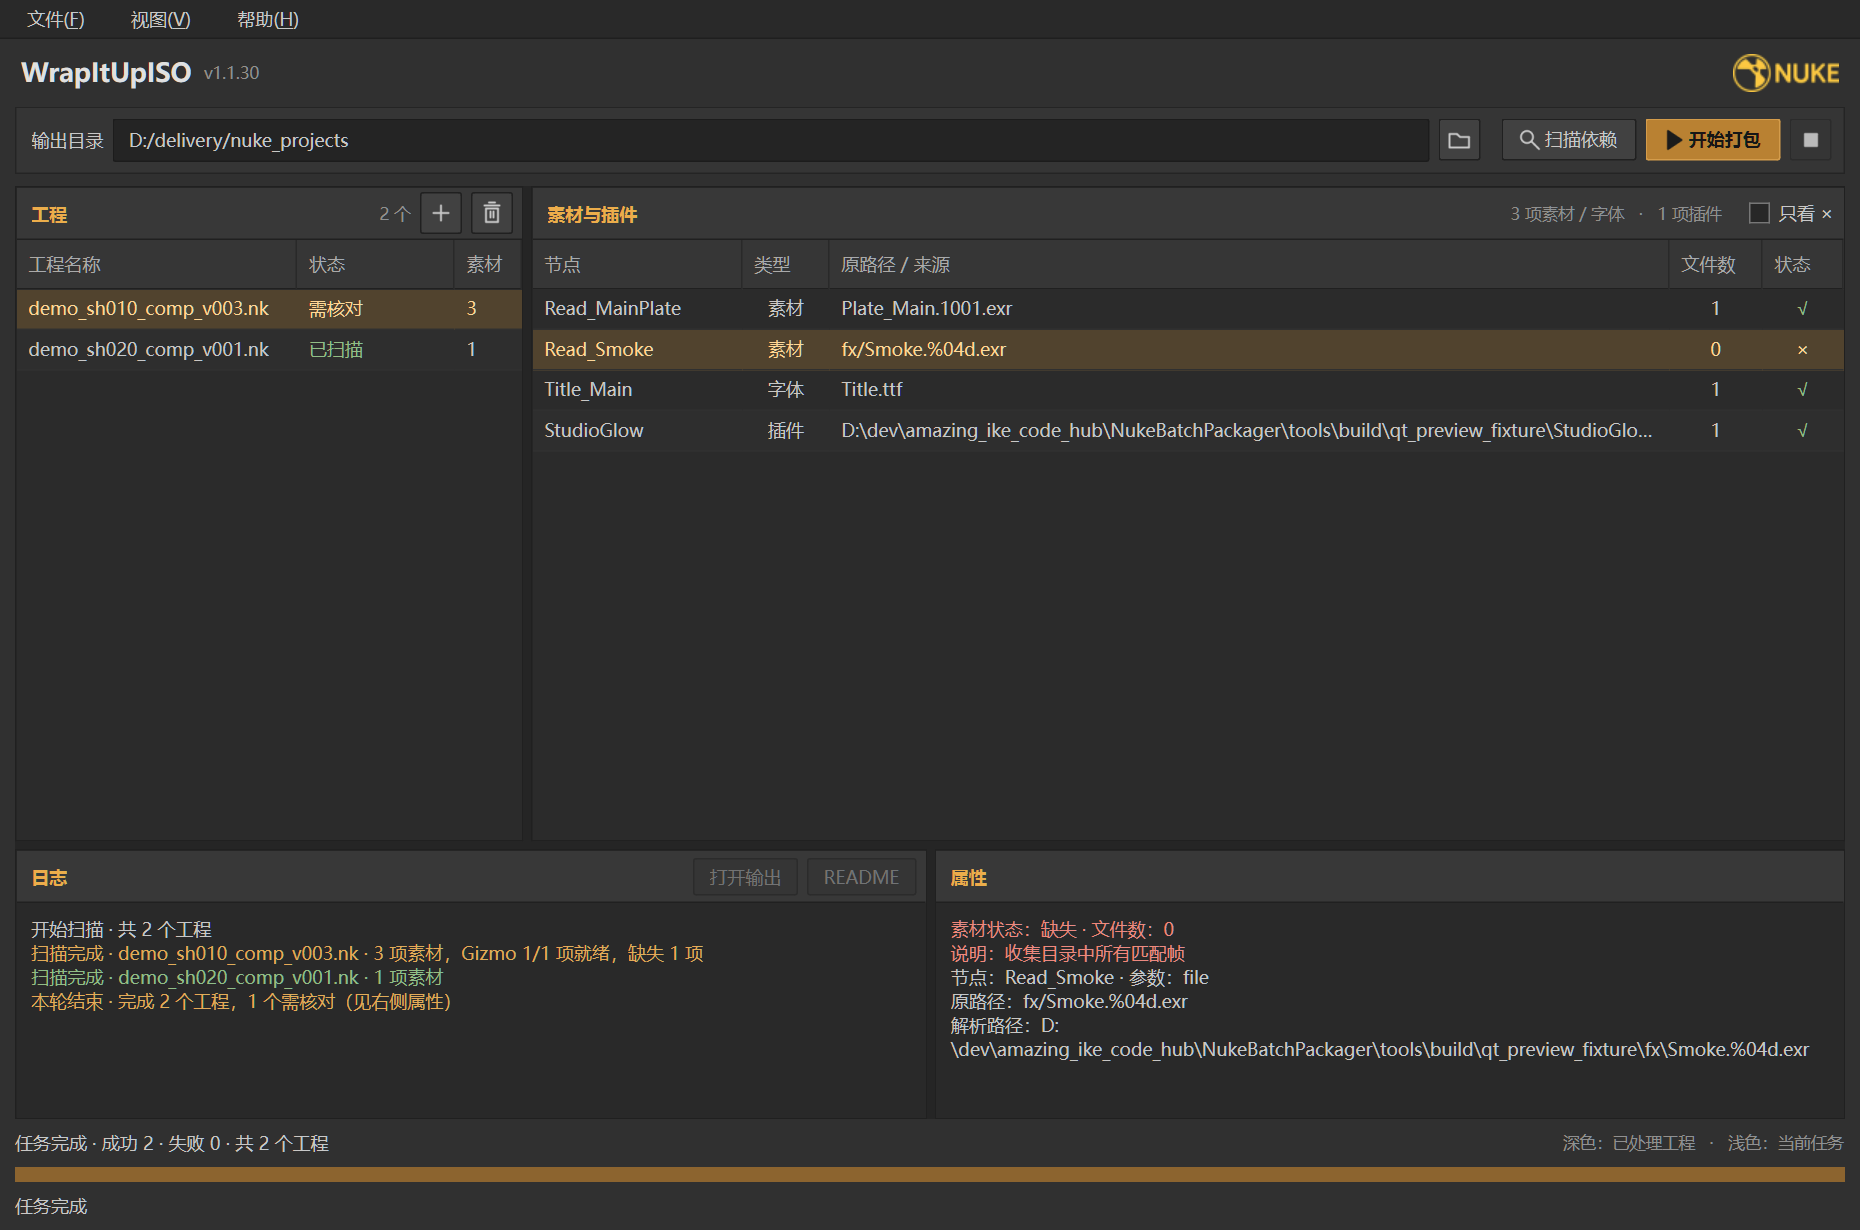
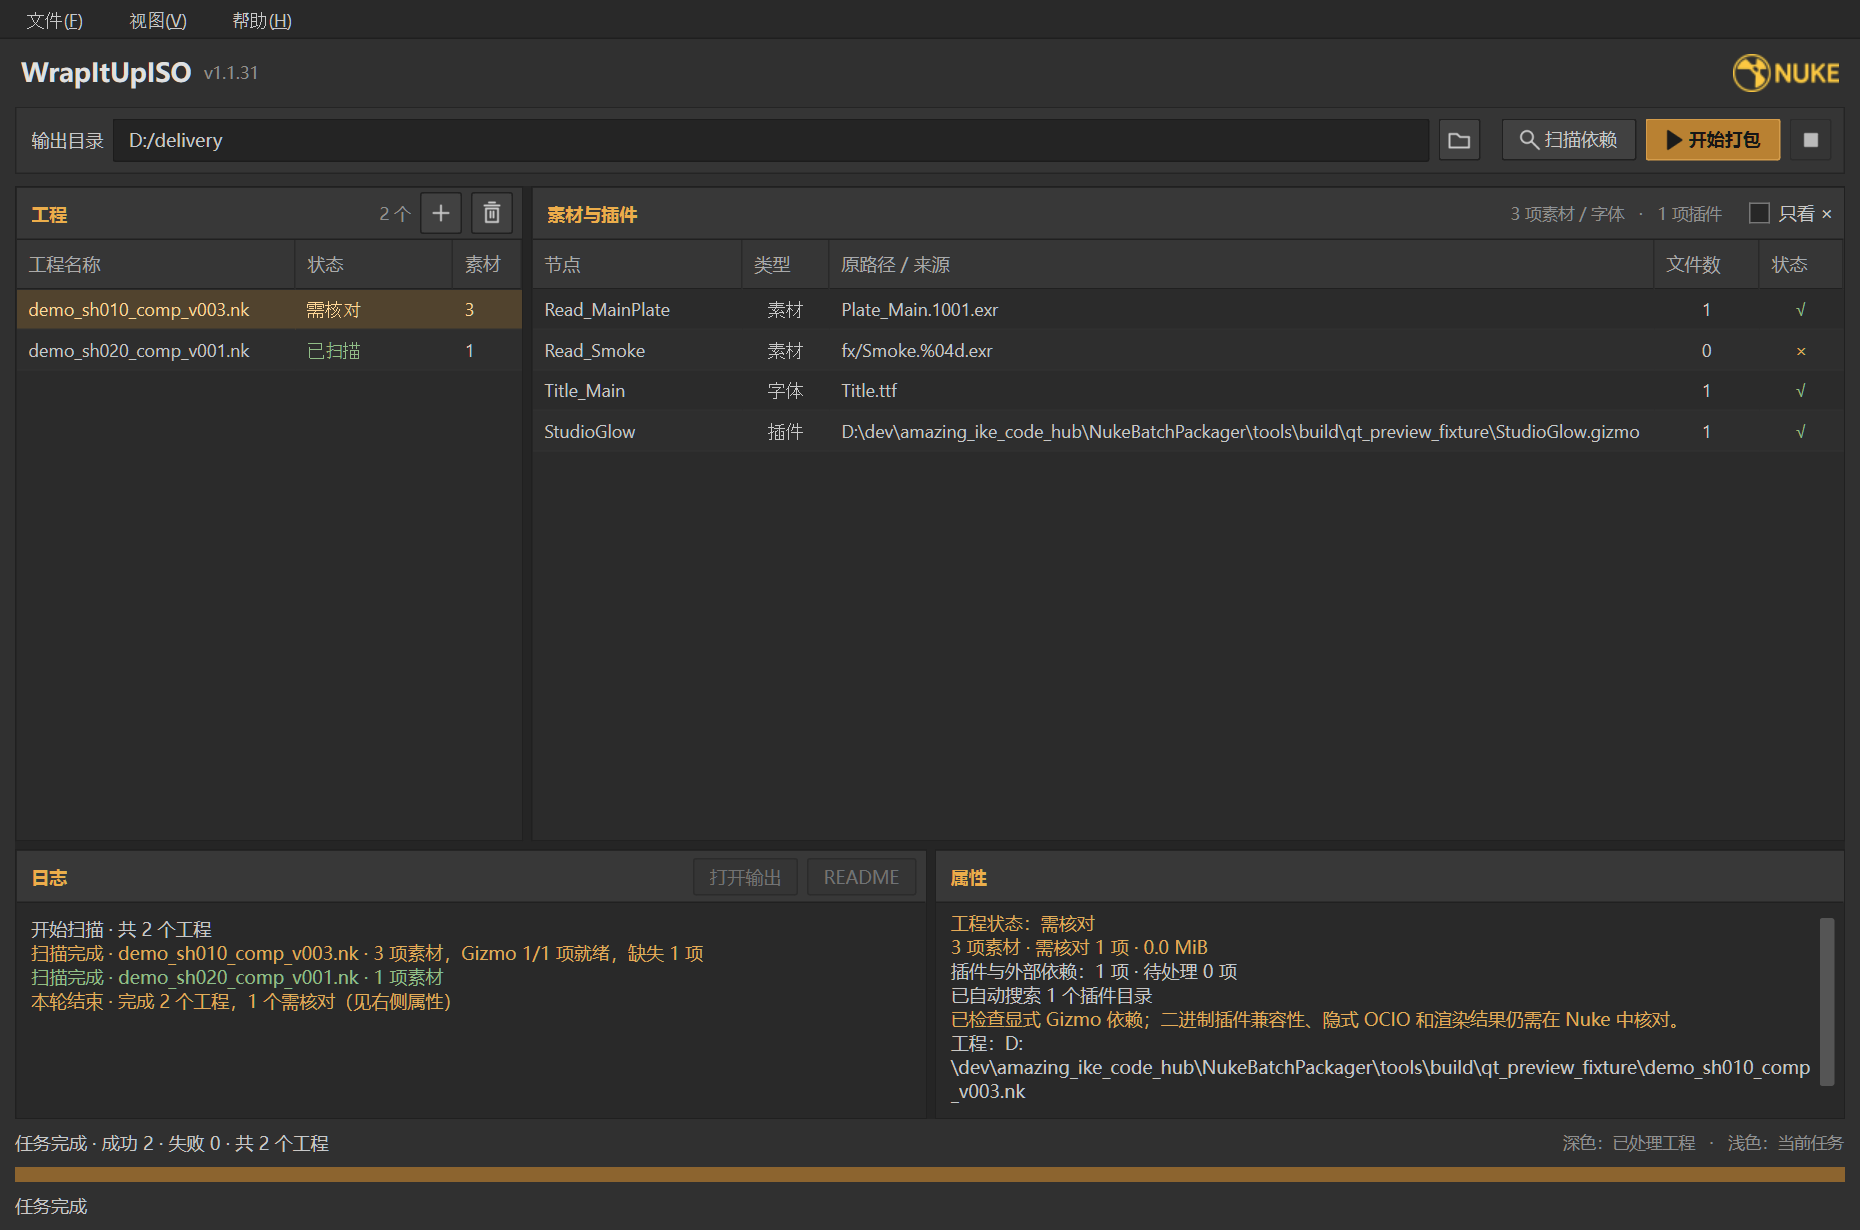
更新三语界面说明与预览并升级至 1.1.31
补充语言切换、便携设置路径、保存内容及异常恢复说明，更新中文预览并新增英文和日文预览。

单文件 EXE 已验证独立运行、日文打包，以及重启后恢复语言、输出目录和分栏布局；完整回归通过 177 项测试，覆盖率 95%。

diff --git a/docs/reference.md b/docs/reference.md
@@ -6,7 +6,7 @@
 
 ## Windows 启动
 
-1. 双击 `tools/dist/WrapItUpISO 1.1.30.exe`。这是单文件发布版，已内置 Python 运行时、Qt6 和全部界面依赖，目标电脑无需安装 Python 或 Python Launcher。
+1. 双击 `tools/dist/WrapItUpISO 1.1.31.exe`。这是单文件发布版，已内置 Python 运行时、Qt6 和全部界面依赖，目标电脑无需安装 Python 或 Python Launcher。
 2. 点击左侧工程列表上方的 `+`，打开 Windows 原生文件选择器。支持 Ctrl / Shift 多选文件夹、`.nk` 工程，也可混选，点击“添加选中项”加入列表。双击文件夹进入目录；仅选择 `.nk` 时也可点击“打开”。文件夹会递归查找 `.nk`，没有工程时在日志提示，重复工程不会重复添加。仍支持直接拖入文件或文件夹。
 3. 点击工具栏的放大镜图标“扫描素材与插件”。左侧选择工程，右侧分别列出素材和 Gizmo / 插件条目，点击条目查看来源与问题。左右分栏宽度可拖动调整。
 4. 将一个文件夹拖到“输出目录”输入框，自动使用该路径；也可点击文件夹图标选择目录。点击三角形图标“开始打包”。拖到其他区域的文件夹仍用于添加工程。
@@ -19,7 +19,7 @@
 
 重新扫描、取消或再次打包失败时，仍可打开该工程上一次成功打包的目录和 README；下一次成功打包后入口更新到新目录。移除工程或清空列表时清除对应记录。
 
-分发时只需复制 `WrapItUpISO 1.1.30.exe`。程序启动时会将内置依赖解压到系统临时目录，启动可能需要几秒钟。
+分发时只需复制 `WrapItUpISO 1.1.31.exe`。程序启动时会将内置依赖解压到系统临时目录，启动可能需要几秒钟。
 
 扫描和复制在后台线程执行，窗口保持可操作。连续双色进度条中，深色代表已处理工程，浅色紧接深色，代表当前工程在当前阶段的任务进度；不绘制工程分隔线，进度变化采用短暂平滑过渡。上方保留工程数量，下方显示任务数、百分比和正在处理的文件；复制阶段按文件数计任务，大文件内部仍按复制量平滑更新。任务数量尚未确定时，浅色部分贴着深色边缘缓慢伸缩。点击“取消”会清理当前未完成工程，保留已完成结果。
 
@@ -75,9 +75,41 @@ python tools/prepare_app_icons.py
 python -m PyInstaller --workpath tools/build --distpath tools/dist tools/WrapItUpISO.spec
 ```
 
-生成的程序为 `tools/dist/WrapItUpISO 1.1.30.exe`，文件名自动采用 `version.json` 中的名称与版本，无需附带 `_internal` 文件夹。
+生成的程序为 `tools/dist/WrapItUpISO 1.1.31.exe`，文件名自动采用 `version.json` 中的名称与版本，无需附带 `_internal` 文件夹。
 窗口、任务栏和 EXE 使用 `assets/Icon/nuke logo.png` 转换的圆形图标；工具栏使用同目录中的横版 Logo。图标资源随 EXE 内置，替换源图片后运行 `prepare_app_icons.py` 再构建即可更新。
 界面使用 Qt6 / PySide6，文件拖放由 Qt 原生处理；EXE 内置 Qt 库与 Windows 平台插件，不需要额外安装 Qt。
+
+## 语言与便携设置
+
+一个 EXE 内置简体中文、English、日本語。在“视图 → 语言 / Language”切换，立即更新菜单、按钮、表头、已扫描结果、属性和历史日志；工程、扫描缓存与选择状态保留。任务进行时暂时禁用语言切换。首次启动跟随系统语言，其他语言默认英文，之后使用保存的选择。
+
+应用自有文案及 Windows 文件选择器的自定义提示跟随选择的语言；原生系统按钮和系统错误可能仍使用 Windows 的语言。文件路径、节点名、插件名、品牌和程序标语保持原样。交付 `readme.md` 使用本次打包选择的语言；`report.json` 保留既有字段、状态值和中文诊断以兼容旧版，新增 `language` 字段记录交付语言。所有交付文件仍使用既定的小写命名。
+
+启动时自动创建并读取 **程序所在目录 / `settings/wrapitupiso_settings.json`**。使用 EXE 时以 EXE 所在目录为准，源码运行时以项目根目录为准，不依赖启动时的工作目录，也不写入 PyInstaller 的临时解压目录。
+
+设置内容包括语言、窗口大小与位置、最大化状态、三处分栏比例、表格列宽、“只看问题”筛选、输出目录和上次添加工程的目录。项目列表和扫描结果不写入设置文件。示例：
+
+```json
+{
+  "schema_version": 1,
+  "language": "ja",
+  "layout": {
+    "window": {"width": 1240, "height": 820, "maximized": false},
+    "panes": [340, 880],
+    "footer_panes": [600, 600],
+    "vertical_panes": [460, 190],
+    "project_columns": [190, 105, 50],
+    "asset_columns": [140, 58, 350, 62, 54]
+  },
+  "only_issues": false,
+  "output_directory": "",
+  "last_project_directory": ""
+}
+```
+
+设置更改后自动保存，关闭时再次保存。“帮助 → 打开设置目录”可定位文件；手动编辑前请先关闭程序，避免被当前窗口状态覆盖。窗口移到已断开的显示器外时，启动会把它恢复到可见屏幕。无效字段使用默认值；损坏的 JSON 会备份为 `wrapitupiso_settings.invalid-时间戳.json` 后重建。无法写入时在日志提示，本次仍可运行，但不能记住更改。未知的较新设置格式保持原文件，不覆盖。
+
+翻译统一保存在 `locales/translations.json`，结构为 `固定键 → zh-CN / en / ja → 文案`。动态值使用 `{count}`、`{filename}` 等命名占位符，各语言的占位符必须一致。文件路径等用户数据作为参数传入，不会被当作翻译键。构建时检查字典完整性，并把字典嵌入 EXE；修改源码字典后需重新构建发布版。
 
 ## 收集规则
 
@@ -127,6 +159,8 @@ python cli.py "D:/shots/shot01.nk" --output "E:/delivery"
 
 - `app.py`：Qt6 主窗口；后台线程执行扫描和复制，通过队列和 Qt 定时器交由主线程更新界面。
 - `qt_widgets.py`：Nuke 风格深灰主题、原生拖放控件和连续双色进度条。
+- `i18n.py` / `locales/translations.json`：三语字典、命名参数与可重新翻译的消息；状态判断使用固定标识。
+- `settings.py`：软件专属 JSON 设置、字段校验、原子保存和损坏文件备份。
 - `project_picker.py`：Windows 原生文件选择器，支持文件夹与 `.nk` 混合多选。
 - `plugin_paths.py`：静态解析启动配置，自动发现插件目录，不执行原配置代码。
 - `core.py`：工程解析、素材收集与路径重写。

diff --git a/README.md b/README.md
@@ -6,15 +6,17 @@
 
 支持批量处理 `.nk` 工程，自动收集素材、改写路径并生成交付清单。打包时无需安装或启动 Nuke，也不会修改源工程。
 
-Qt6 桌面界面采用 Nuke 风格的深灰面板与橙色高亮，支持拖放、可调整分栏和后台批量处理。
+Qt6 桌面界面采用 Nuke 风格的深灰面板与橙色高亮，支持拖放、可调整分栏和后台批量处理。内置简体中文、English、日本語，语言和布局会自动记忆。
 
 **[下载 Windows 版](https://github.com/AmazingiKe/Warp-Up-ISO/releases/latest)** · [查看所有版本](https://github.com/AmazingiKe/Warp-Up-ISO/releases) · [详细说明](docs/reference.md)
 
 ![WrapItUpISO 界面预览：批量工程列表、素材与插件检查、打包进度和日志](docs/images/wrapitupiso-preview.png)
 
+[English 界面预览](docs/images/wrapitupiso-en.png) · [日本語 界面预览](docs/images/wrapitupiso-ja.png)
+
 ## 开始使用
 
-从 Releases 的 **Assets** 下载 `WrapItUpISO 1.1.30.exe`，双击运行。单个 EXE 已包含运行环境，**无需安装 Python**。
+从 Releases 的 **Assets** 下载 `WrapItUpISO 1.1.31.exe`，双击运行。单个 EXE 已包含运行环境，**无需安装 Python**。
 
 1. **添加工程**：拖入 `.nk` 文件或文件夹，也可以点击 `+` 多选添加。
 2. **扫描依赖**：点击放大镜，检查素材与插件状态；有问题时点击条目查看原因。
